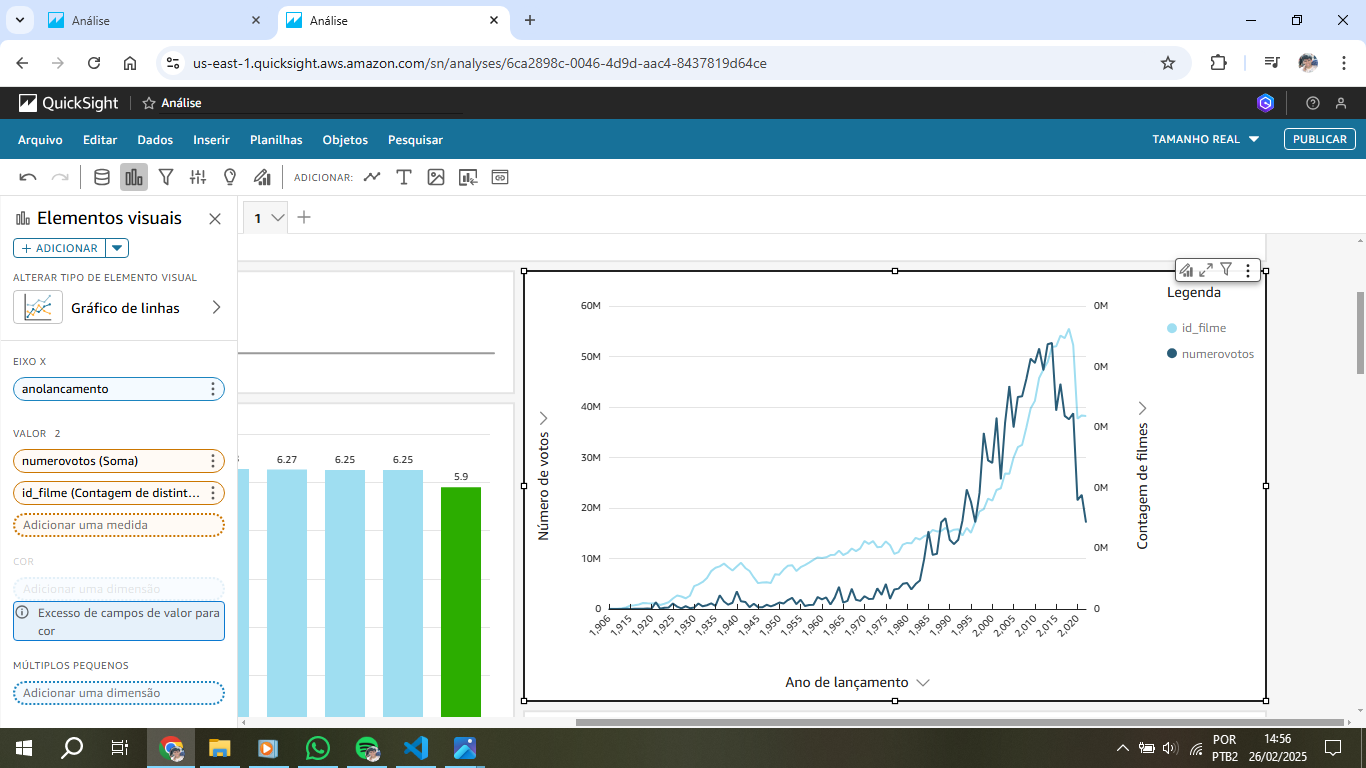
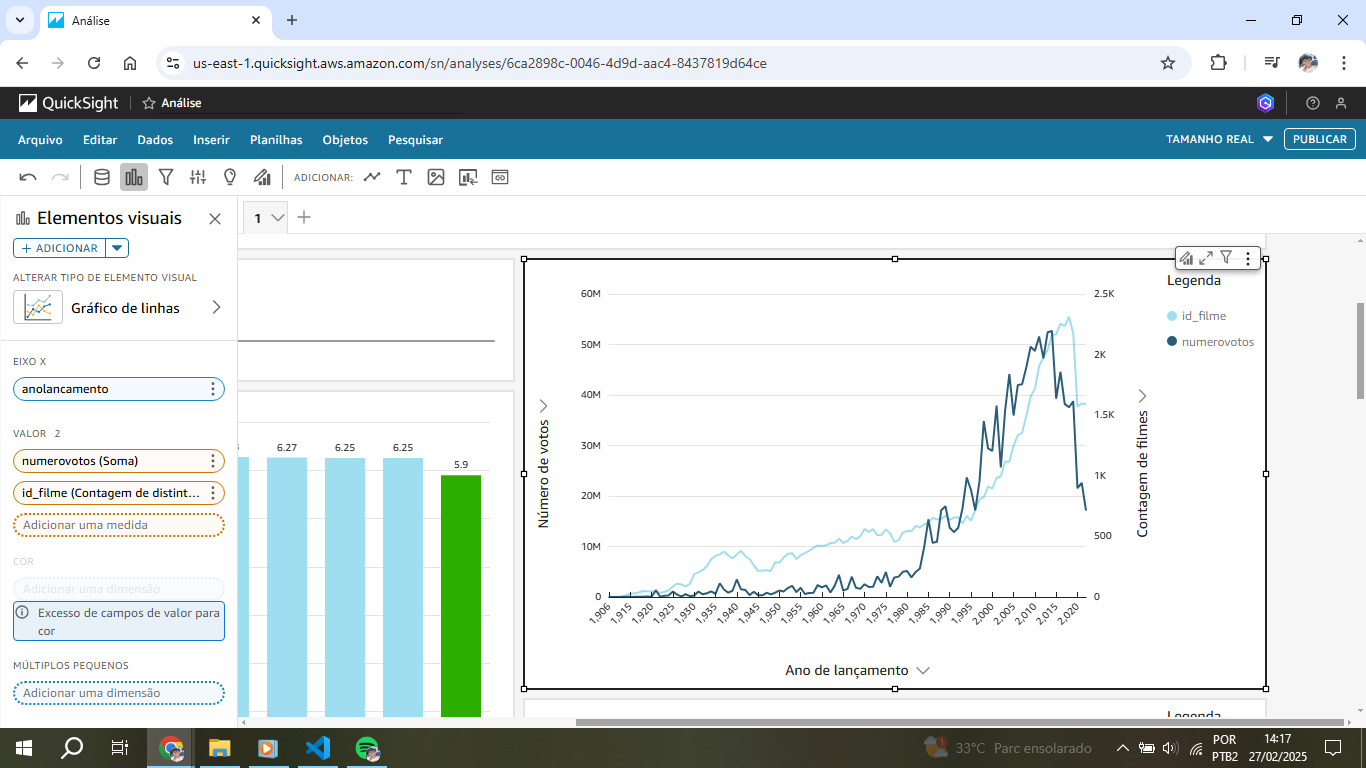
Salvando novos arquivos

diff --git a/Sprint10/README.md b/Sprint10/README.md
@@ -1,29 +1,13 @@
 # Instruções
 
-Nesta Sprint foi realizada... <br>
+Nesta Sprint foi realizada a etapa final do desafio, que consiste em realizar a análise de dados com o Quicksight.<br>
+Para realizar o desafio, foram visualizados tutoriais da AWS e cursos fornecidos pela trilha da Sprint 10.
 
 ## Resumo
 
-**AWS Glue:** Como utilizar o serviço para executar jobs
+**AWS Glue:** Utilizar o serviço para executar jobs de ETL
 
-**AWS Lambda:** Como configurar, criar e executar funções
-
-**Apache Spark:** Como utilizá-lo e executar suas funções
-
-# Exercícios
-
-[Pasta Exercicios](exercicios/)
-
-Exercício 1 - 
-![Apache Spark](exercicios/Exercicio01/01.png)
-
-Exercicio 2 - <br>
-![TMDB](exercicios/Exercicio02/01.png)
-
-Exercicio 3 - 
-
-[Código](exercicios/Exercicio02/Ex3.py)<br>
-
+**AWS Quicksight:** Realizar análises, criando dashboard interativo com gráficos de diversos tipos
 
 ## Apresentação do desafio
 
@@ -32,67 +16,109 @@ Exercicio 3 -
 ## Evidências
 
 [Arquivos do Desafio](desafio/)
+[Análise em PDF](desafio/Analise.pdf)
 
+### Configuração do conjunto de dados no Quicksight
 
-![Evidencia 1](evidencias/01.png)
+Conjunto de dados para análise de filmes configurado<br>
+![Evidencia 1](evidencias/01.png)<br>
 
+Joins configurados: dim_filme com fato_filme e dim_filme com dim_artista<br>
+![Evidencia 2](evidencias/02.png)<br>
+![Evidencia 3](evidencias/03.png)<br>
 
-![Evidencia 2](evidencias/02.png)
-![Evidencia 3](evidencias/03.png)
+Conjunto de dados para séries configurado: fato_series com dim_titulo<br>
+![Evidencia 4](evidencias/04.png)<br>
+![Evidencia 5](evidencias/05.png)<br>
 
+### Criando o dashboard
+Cabeçalho com 2 campos para imagens e 1 para o tema da análise<br>
+![Evidencia 6](evidencias/06.png)<br>
 
-![Evidencia 4](evidencias/04.png)
+Gráfico dos 10 filmes com maiores médias de avaliação, com filtros e ação de filtro para detalhamento de votos<br>
+![Evidencia 7](evidencias/07.png)<br>
+![Evidencia 8](evidencias/08.png)<br>
+![Evidencia 9](evidencias/09.png)<br>
+![Evidencia 10](evidencias/10.png)<br>
+![Evidencia 11](evidencias/11.png)<br>
+![Evidencia 12](evidencias/12.png)<br>
+![Evidencia 13](evidencias/13.png)<br>
 
+Gráfico de linha para votação por ano de lançamento e número de filmes lançados por ano<br>
+![Evidencia 14](evidencias/14.png)<br>
 
-![Evidencia 5](evidencias/05.png)
+Gráfico de barras horizontais para nota média por ano de lançamento de séries (top 10)<br>
+![Evidencia 15](evidencias/15.png)<br>
+![Evidencia 16](evidencias/16.png)<br>
 
+Gráfico de barras duplas para os 10 filmes com maiores lucros, considerando o período de 2013 a 2022<br>
+![Evidencia 17](evidencias/17.png)<br>
+![Evidencia 18](evidencias/18.png)<br>
+![Evidencia 19](evidencias/19.png)<br>
+![Evidencia 20](evidencias/20.png)<br>
 
-![Evidencia 6](evidencias/06.png)
+Gráfico de barras horizontais comparando notas médias de filmes com duração maior ou menor que 120 minutos<br>
+![Evidencia 21](evidencias/21.png)<br>
+![Evidencia 22](evidencias/22.png)<br>
 
+Gráfico de dispersão para analisar a relação entre orçamento e número de votos<br>
+![Evidencia 23](evidencias/23.png)<br>
+![Evidencia 24](evidencias/24.png)<br>
 
-![Evidencia 7](evidencias/07.png)
+Gráfico de barras horizontais para desempenho dos filmes conforme a quantidade de profissões dos atores<br>
+![Evidencia 25](evidencias/25.png)<br>
+![Evidencia 26](evidencias/26.png)<br>
 
+Gráfico de barras horizontais para desempenho de séries com até 2 anos de duração ou mais<br>
+![Evidencia 27](evidencias/27.png)<br>
+![Evidencia 28](evidencias/28.png)<br>
+![Evidencia 29](evidencias/29.png)<br>
 
-![Evidencia 8](evidencias/08.png)
+### Painel da análise
 
+Painel publicado para interação e exportação em PDF<br>
+![Evidencia 30](evidencias/30.png)<br>
 
-![Evidencia 9](evidencias/09.png)
+Notas Médias por Ano de Filmes<br>
+![Evidencia 31](evidencias/31.png)<br>  
 
+Votação e Lançamentos por Ano de Filmes<br> 
+![Evidencia 32](evidencias/32.png)<br>
 
-![Evidencia 10](evidencias/10.png)
+Notas Médias por Ano de Séries<br>  
+![Evidencia 33](evidencias/33.png)<br>
 
+Lucro e Bilheteria de Filmes<br>  
+![Evidencia 34](evidencias/34.png)<br>
 
-![Evidencia 11](evidencias/11.png)
+Votos x Orçamento de Filmes<br>
+![Evidencia 35](evidencias/35.png)  
 
+Avaliação por Duração de Filmes<br>  
+![Evidencia 36](evidencias/36.png)<br>
 
-![Evidencia 12](evidencias/12.png)
+Avaliação por profissão dos Artistas de Filmes<br>  
+![Evidencia 37](evidencias/37.png)<br> 
 
+Avaliação por Duração de Séries<br>  
+![Evidencia 38](evidencias/38.png)<br>
 
-![Evidencia 13](evidencias/13.png)
+### Interação com os gráficos
 
+Ao passar o mouse, é exibido o maior crescimento dos votos a partir de 1983<br>
+![Evidencia 39](evidencias/39.png)<br>
 
-![Evidencia 14](evidencias/14.png)
-![Evidencia 15](evidencias/15.png)
+Controle deslizante com a exibição de 5 milhões de votos, alterando a exibição de avaliações anuais<br>
+![Evidencia 40](evidencias/40.png)<br>
 
+Seleção de 2022 mostra votos e lançamentos desse ano<br>
+![Evidencia 41](evidencias/41.png)<br>
 
-![Evidencia 16](evidencias/16.png)
+Seleção do filme com maior lucro revela orçamento e número de votos no outro gráfico<br>
+![Evidencia 42](evidencias/42.png)<br>
+![Evidencia 43](evidencias/43.png)<br>
 
+### Erros e problemas
 
-![Evidencia 17](evidencias/17.png)
-
-
-![Evidencia 18](evidencias/18.png)
-![Evidencia 19](evidencias/19.png)
-![Evidencia 20](evidencias/20.png)
-
-
-![Evidencia 21](evidencias/21.png)
-
-
-![Evidencia 22](evidencias/22.png)
-
-
-![Erro 01](evidencias/Err_01.png)
-
-
-![Erro 02](evidencias/Err_02.png)
+Modelagem dimensional da sprint 9 refeita<br>
+![Erro 01](evidencias/modelagem.png)<br>
